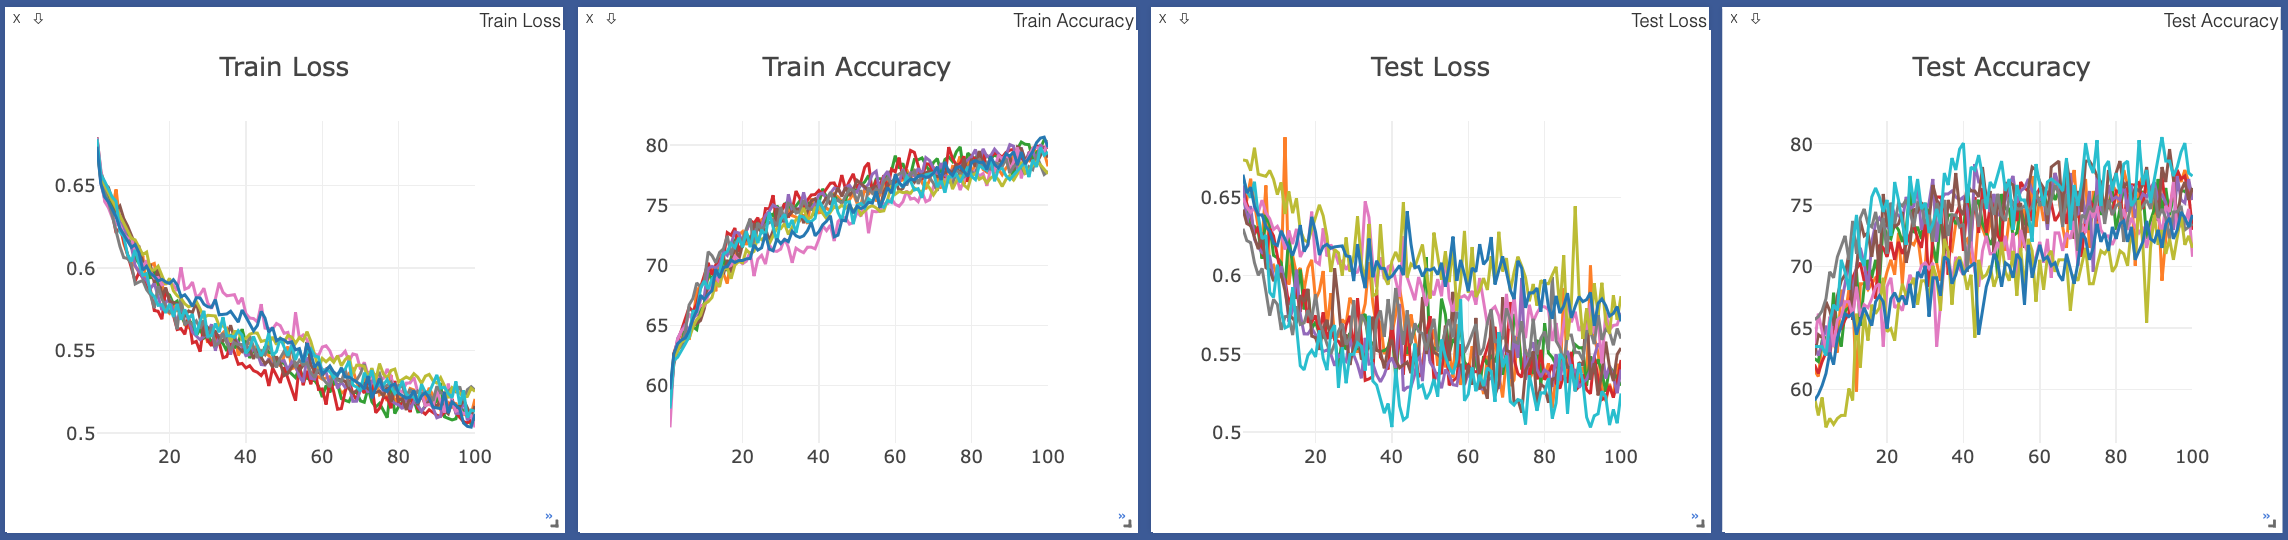
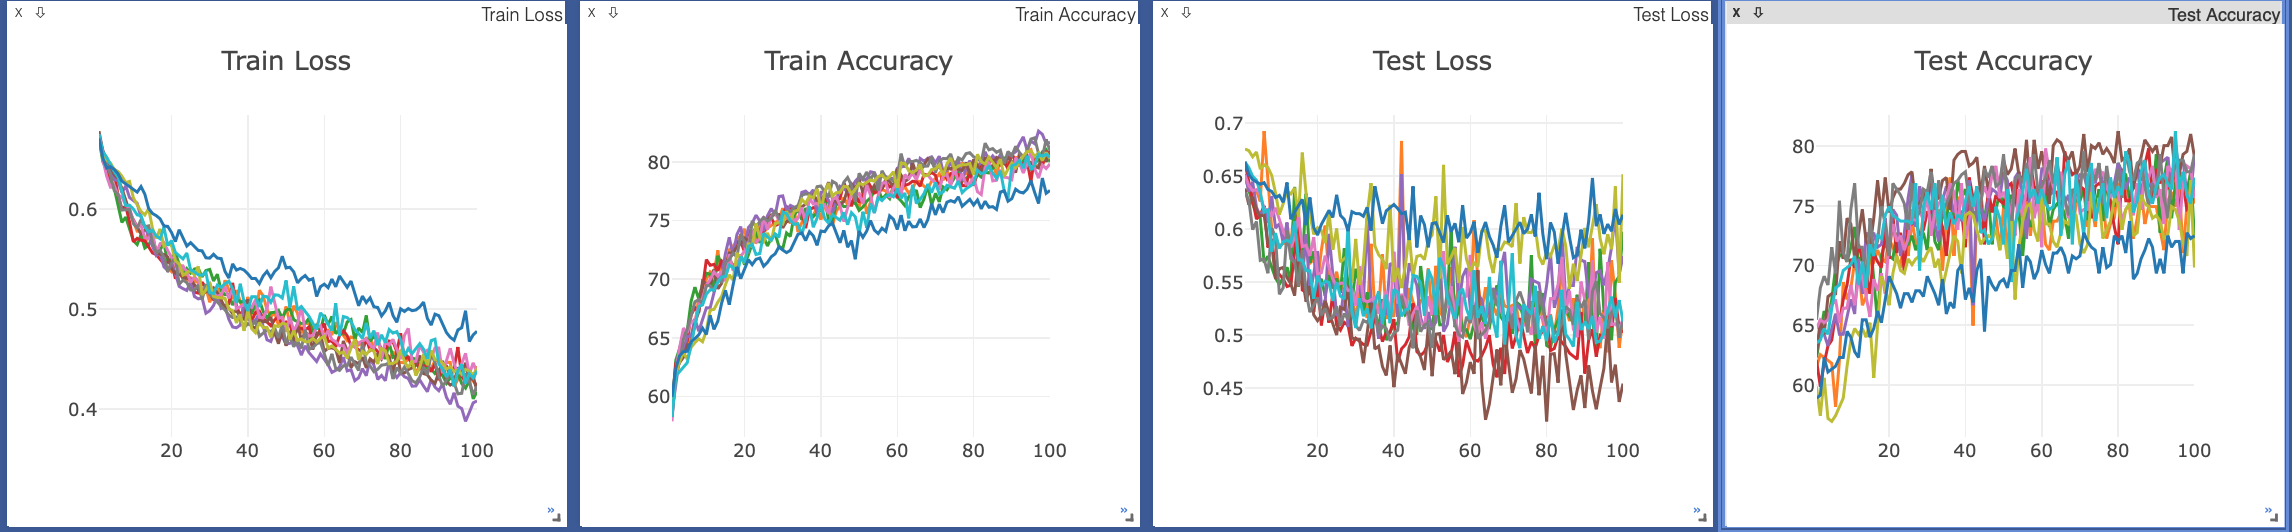
change loss as same to paper and update the results

diff --git a/README.md b/README.md
@@ -41,8 +41,8 @@ Visdom now can be accessed by going to `127.0.0.1:8097/env/$data_type` in your b
 Default PyTorch Adam optimizer hyper-parameters were used without learning rate scheduling. 
 The model was trained with 100 epochs and batch size of 50 on a NVIDIA GTX 1070 GPU. 
 
-Here are tiny differences between this code and official paper. Firstly, **X** is defined as a concatenated matrix of vertex labels、
-vertex attributes and normalized node degrees. Secondly, **CrossEntropyLoss** is used to compute the loss. 
+Here is tiny difference between this code and official paper. **X** is defined as a concatenated matrix of vertex labels、
+vertex attributes and normalized node degrees.
 
 <table>
   <thead>
@@ -116,25 +116,25 @@ vertex attributes and normalized node degrees. Secondly, **CrossEntropyLoss** is
     </tr>
     <tr>
       <td align="center">DGCNN (ours)</td>
-      <td align="center">82.22±10.18</td>
-      <td align="center">62.94±8.24</td>
-      <td align="center">74.40±2.07</td>
-      <td align="center">72.52±3.72</td>
-      <td align="center">69.83±4.08</td>
-      <td align="center">68.80±2.33</td>
-      <td align="center">69.90±4.83</td>
-      <td align="center">46.33±3.71</td>
+      <td align="center">81.67±9.64</td>
+      <td align="center">59.12±11.27</td>
+      <td align="center">75.72±3.13</td>
+      <td align="center">72.88±3.38</td>
+      <td align="center">68.80±5.37</td>
+      <td align="center">70.52±2.00</td>
+      <td align="center">71.50±4.48</td>
+      <td align="center">46.47±5.22</td>
     </tr>
     <tr>
       <td align="center">Training Time</td>
-      <td align="center">4.51s</td>
-      <td align="center">6.88s</td>
-      <td align="center">61.63s</td>
-      <td align="center">21.20s</td>
-      <td align="center">64.98s</td>
-      <td align="center">203.35s</td>
-      <td align="center">15.59s</td>
-      <td align="center">22.21s</td>
+      <td align="center">4.48s</td>
+      <td align="center">6.77s</td>
+      <td align="center">61.04s</td>
+      <td align="center">21.15s</td>
+      <td align="center">64.71s</td>
+      <td align="center">202.65s</td>
+      <td align="center">15.55s</td>
+      <td align="center">21.90s</td>
     </tr> 
   </tbody>
 </table>
